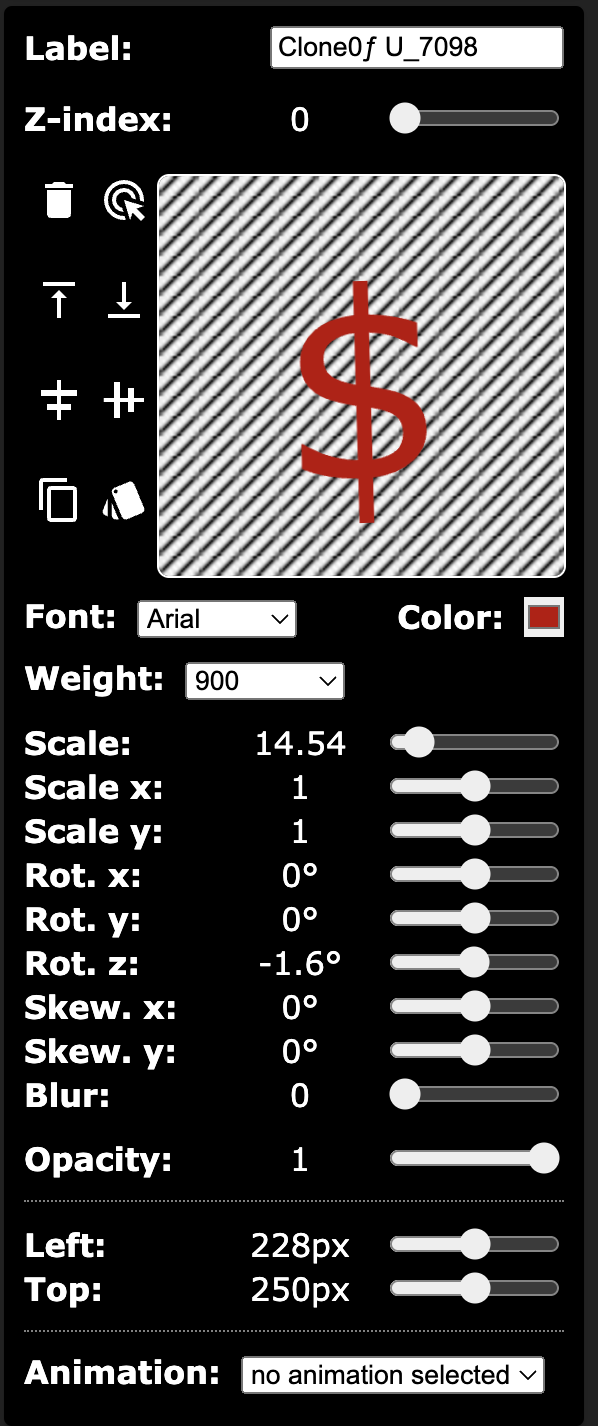
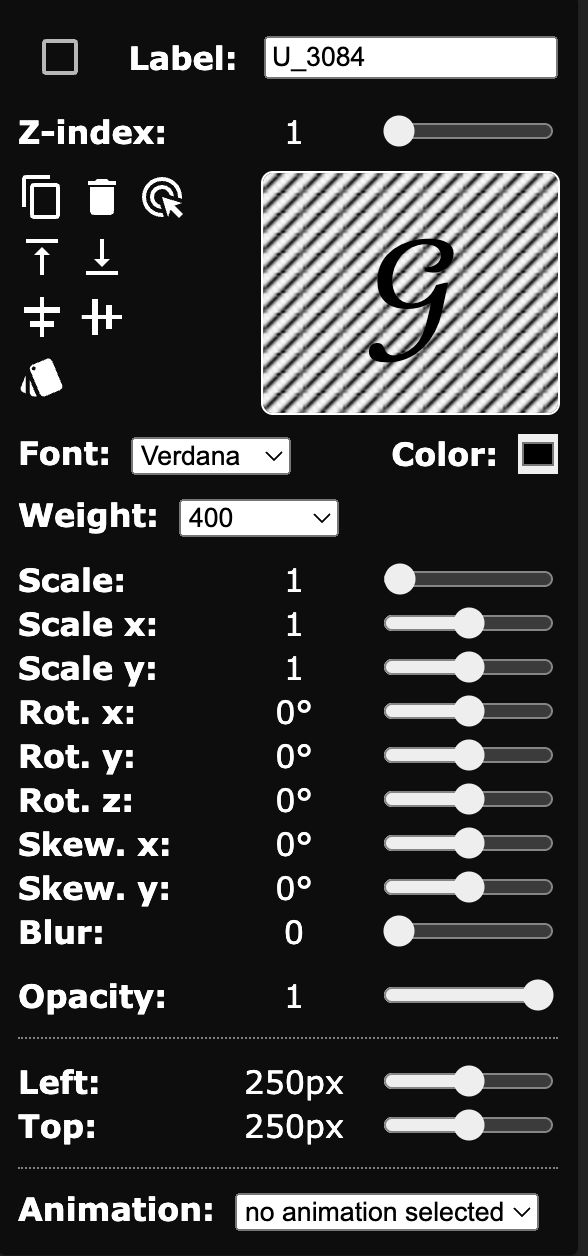
fix theming

diff --git a/src/cmp/Layout/cmp/Panel/cmp/Symbols/Sym/index.jsx b/src/cmp/Layout/cmp/Panel/cmp/Symbols/Sym/index.jsx
@@ -1,5 +1,5 @@
 import { useContext } from 'react';
-import { Card, Typography, Checkbox} from '@mui/material';
+import { Card, Typography, Checkbox } from '@mui/material';
 import ArrowDropUpIcon from '@mui/icons-material/ArrowDropUp';
 import ArrowDropDownIcon from '@mui/icons-material/ArrowDropDown';
 
@@ -13,15 +13,16 @@ import ctx from 'src/Context';
 import ACTIONS from 'src/reducer/actions';
 import useStyles from './styles';
 
-const Sym = ({sym}) => {
+const Sym = ({ sym }) => {
     const {
-            state: {
-                focusedSymbolId,
-                backgroundColor,
-                selected
-            },
-            dispatch
-        } = useContext(ctx),
+        state: {
+            focusedSymbolId,
+            backgroundColor,
+            selected,
+            symbols
+        },
+        dispatch
+    } = useContext(ctx),
         expanded = focusedSymbolId === sym.id,
         classes = useStyles({
             expanded,
@@ -49,7 +50,7 @@ const Sym = ({sym}) => {
             e.stopPropagation();
             dispatch({
                 type: ACTIONS.MOVE_SYMBOL,
-                payload: {id: sym.id, direction}
+                payload: { id: sym.id, direction }
             });
         },
         moveUp = e => move(e, -1),
@@ -57,33 +58,34 @@ const Sym = ({sym}) => {
     // console.log({selected});
     return <div className={classes.Container}>
         <Card onClick={focus} className={classes.Sym}>
-            {expanded ? 
-            <div>
-                <Label sym={sym} checked={selected.includes(sym.id)} onClick={onCheckToggle}/>
-                <Zindex sym={sym}/>
-                <Element sym={sym} backgroundColor={backgroundColor}/>
-                <Styles sym={sym} />
-                <hr className={classes.Hr} />
-                <Position sym={sym} />
-                <hr className={classes.Hr} />
-                <Animation sym={sym}/>
-            </div> : <div className={classes.HoverLight}>
+            {expanded ?
                 <div>
-                    <Checkbox checked={selected.includes(sym.id)} onClick={onCheckToggle}/>
-                </div>
-                <div>
-                    <Typography variant="body1">{sym.label}</Typography>
-                    <Typography variant="h5">
-                        <div className={classes.RotatedContainer}>
-                            <div className={classes.Rotated}>{sym.char}</div>
-                        </div>
-                    </Typography>
-                </div>
-                <div className={classes.HoverLightActions}>
-                    <ArrowDropUpIcon onClick={moveUp}/>
-                    <ArrowDropDownIcon onClick={moveDown}/>
-                </div>
-            </div>}
+                    <Label sym={sym} checked={selected.includes(sym.id)} onClick={onCheckToggle} />
+                    <Zindex sym={sym} />
+                    <Element sym={sym} backgroundColor={backgroundColor} />
+                    <Styles sym={sym} />
+                    <hr className={classes.Hr} />
+                    <Position sym={sym} />
+                    <hr className={classes.Hr} />
+                    <Animation sym={sym} />
+                </div> : <div className={classes.HoverLight}>
+                    {Boolean(symbols.length > 1) &&
+                        <div>
+                            <Checkbox checked={selected.includes(sym.id)} onClick={onCheckToggle} />
+                        </div>}
+                    <div>
+                        <Typography variant="body1">{sym.label}</Typography>
+                        <Typography variant="h5">
+                            <div className={classes.RotatedContainer}>
+                                <div className={classes.Rotated}>{sym.char}</div>
+                            </div>
+                        </Typography>
+                    </div>
+                    <div className={classes.HoverLightActions}>
+                        <ArrowDropUpIcon onClick={moveUp} />
+                        <ArrowDropDownIcon onClick={moveDown} />
+                    </div>
+                </div>}
         </Card>
     </div>;
 };

diff --git a/src/App.js b/src/App.js
@@ -1,16 +1,15 @@
 import { useReducer, useEffect, useCallback } from 'react';
-import { ThemeProvider} from 'react-jss';
-
-
+import { ThemeProvider } from 'react-jss';
+import { ThemeProvider as MThemeProvider, createTheme } from '@mui/material/styles';
 
 import Layout from './cmp/Layout';
 import Context from './Context';
 import reducerFactory from './reducer';
 import ACTIONS from './reducer/actions';
 import getTheme from './themes';
-import {debounce} from './utils';
+import { debounce } from './utils';
 
-const {reducer, init} = reducerFactory();
+const { reducer, init } = reducerFactory();
 const App = () => {
     const [state, dispatch] = useReducer(reducer, {}, init),
         { themeKey, preventReload } = state,
@@ -27,7 +26,12 @@ const App = () => {
             e.returnValue = '';
         }, []),
         storeViewPortData = useCallback(debounced, []),
-        prevent = useCallback(e => e.preventDefault(), []);
+        prevent = useCallback(e => e.preventDefault(), []),
+        mtheme = createTheme({
+            palette: {
+                mode: themeKey,
+            },
+        });
     useEffect(storeViewPortData, [storeViewPortData]);
     useEffect(() => {
         window.addEventListener("resize", storeViewPortData);
@@ -40,7 +44,7 @@ const App = () => {
                 history.go(1);
             };
         }
-        
+
         return () => {
             window.removeEventListener("resize", storeViewPortData);
             window.removeEventListener("scroll", prevent);
@@ -50,13 +54,15 @@ const App = () => {
             }
         };
     }, [storeViewPortData, preventReload]);
-    
-    return (        
-        <ThemeProvider theme={theme}>
-            <Context.Provider value={{state, dispatch, browser}}>
-                <Layout/>
-            </Context.Provider>
-        </ThemeProvider>
+
+    return (
+        <MThemeProvider theme={mtheme}>
+            <ThemeProvider theme={theme}>
+                <Context.Provider value={{ state, dispatch, browser }}>
+                    <Layout />
+                </Context.Provider>
+            </ThemeProvider>
+        </MThemeProvider>
     );
 };
 

diff --git a/src/cmp/Layout/cmp/Panel/cmp/Search/index.jsx b/src/cmp/Layout/cmp/Panel/cmp/Search/index.jsx
@@ -16,6 +16,7 @@ const Search = () => {
             state: {
                 symbols,
                 symbolsFilter,
+                selected
             },
             dispatch
         } = useContext(ctx),
@@ -36,19 +37,24 @@ const Search = () => {
         invertAll = () => dispatch({
             type: ACTIONS.TOGGLE_SYMBOLS_SELECTION,
             payload: 'invertAll'
-        })
-        ;
+        }),
+        syL = symbols.length,
+        seL = selected.length,
+        showSelectAll = Boolean(syL),
+        showUnselectAll = Boolean(seL),
+        showInvertSelection = Boolean(seL);
+        
     return Boolean(symbols.length) && <div className={classes.Container}>
         <div>
-            <Tooltip disableInteractive title="select all" className={classes.Pointer}>
+            {showSelectAll && <Tooltip disableInteractive title="select all" className={classes.Pointer}>
                 <DoneAllIcon onClick={selectAll}/>
-            </Tooltip>
-            <Tooltip disableInteractive title="unselect all" className={classes.Pointer}>
+            </Tooltip>}
+            {showUnselectAll && <Tooltip disableInteractive title="unselect all" className={classes.Pointer}>
                 <RemoveDoneIcon onClick={unselectAll}/>
-            </Tooltip>
-            <Tooltip disableInteractive title="invert selection" className={classes.Pointer}>
+            </Tooltip>}
+            {showInvertSelection && <Tooltip disableInteractive title="invert selection" className={classes.Pointer}>
                 <FlakyIcon onClick={invertAll}/>
-            </Tooltip>
+            </Tooltip>}
         </div>
         <div className={classes.Right}>
             <input placeholder="filter by label" type="text" value={symbolsFilter} onInput={updateFilter}/>

diff --git a/src/cmp/Layout/cmp/Panel/cmp/Symbols/Sym/cmp/Label/index.jsx b/src/cmp/Layout/cmp/Panel/cmp/Symbols/Sym/cmp/Label/index.jsx
@@ -12,7 +12,7 @@ import useElementStyles from './styles';
 const Label = ({sym, checked, onClick}) => {
     const classes = useStyles(),
         localCasses = useElementStyles(),
-        {  dispatch} = useContext(ctx),
+        {  dispatch, state: {symbols}} = useContext(ctx),
         updateLabel = e => dispatch({
             type: ACTIONS.UPDATE_SYMBOL,
             payload: {
@@ -23,7 +23,7 @@ const Label = ({sym, checked, onClick}) => {
     return <div className={localCasses.SectionLabel}>
         <div>
             <Box className={classes.Box}>
-                <Checkbox checked={checked} onClick={onClick}/>
+                {Boolean(symbols.length > 1) && <Checkbox checked={checked} onClick={onClick}/>}
                 <strong>Label: </strong><input type="text" onInput={updateLabel} size="small" label="Symbol label"  value={sym.label} />
             </Box>
         </div>

diff --git a/src/cmp/Layout/cmp/Panel/cmp/Symbols/Sym/cmp/Element/styles.js b/src/cmp/Layout/cmp/Panel/cmp/Symbols/Sym/cmp/Element/styles.js
@@ -1,6 +1,6 @@
 import { createUseStyles } from 'react-jss';
 import { mergeAdditionalStyles } from 'src/utils';
-import bgBright from 'src/img/bgBright.png';
+import bgLight from 'src/img/bgLight.png';
 import bgDark from 'src/img/bgDark.png';
 
 export default createUseStyles(theme => ({
@@ -32,7 +32,7 @@ export default createUseStyles(theme => ({
         fontSize:'4em',
         outline: `1px solid ${theme.border}`,
         borderRadius: '5px',
-        backgroundImage: `url(${theme.mode === 'bright' ? bgBright: bgDark})`,
+        backgroundImage: `url(${theme.mode === 'light' ? bgLight: bgDark})`,
         overflow:'hidden'
     },
     Item: {

diff --git a/src/constants.js b/src/constants.js
@@ -24,8 +24,8 @@ export const ITEM_WIDTH = 100;
 export const ITEM_HEIGHT = 140;
 export const ITEM_FOOTER_HEIGHT = 20;
 export const ITEM_FONTSIZE = '2.5em';
-export const THEMES = {'dark' : 'dark', 'bright': 'bright'};
-export const DEFAULT_THEME = (h > 20 || h < 7) ? THEMES.dark : THEMES.bright;
+export const THEMES = {'dark' : 'dark', 'light': 'light'};
+export const DEFAULT_THEME = (h > 20 || h < 7) ? THEMES.dark : THEMES.light;
 export const FADED_OPACITY = 0.4;
 export const LET_UNICODE_PANEL_OPEN_AFTER_SELECTION = true;
 export const MIN_SCALE_REV = -150;

diff --git a/src/cmp/Layout/cmp/Panel/cmp/Icons/index.jsx b/src/cmp/Layout/cmp/Panel/cmp/Icons/index.jsx
@@ -186,7 +186,7 @@ const Icons = () => {
                     checkedIcon={<FullscreenExitIcon />}
                 />
             </Tooltip>
-            <ThemeSwitch onChange={handleClose} tooltip={`switch to ${themeKey === THEMES.bright ? THEMES.dark : THEMES.bright} theme`}/>
+            <ThemeSwitch onChange={handleClose} tooltip={`switch to ${themeKey === THEMES.light ? THEMES.dark : THEMES.light} theme`}/>
         </div>
         {error && <SnackMessage message={error} open={error} setOpen={removeError}/>}
     </>;

diff --git a/src/themes/light.js b/src/themes/light.js
@@ -2,7 +2,7 @@ import { colors, spacing } from './base';
 
 const {grayscale : cgs } = colors,
     theme =  {
-        mode: 'bright',
+        mode: 'light',
         background: {
             main: cgs.lightE,
             panel: cgs.lightD,
@@ -36,7 +36,7 @@ const {grayscale : cgs } = colors,
         accentColor:cgs.dark5,
         spacing,
         palette: {
-            // mode: 'light'
+            mode: 'light'
         }
     };  
 

diff --git a/src/cmp/Layout/cmp/Panel/styles.js b/src/cmp/Layout/cmp/Panel/styles.js
@@ -19,7 +19,7 @@ export default createUseStyles(theme => ({
         borderRadius:'25px',
         borderTopRightRadius: 0,
         borderBottomRightRadius: 0,
-        boxShadow: `30px 0px 80px -7px ${theme.mode === 'bright' ? 'rgba(0,0,0,0.75)' : 'rgba(255,255,255,0.75)'}`,
+        boxShadow: `30px 0px 80px -7px ${theme.mode === 'light' ? 'rgba(0,0,0,0.75)' : 'rgba(255,255,255,0.75)'}`,
         zIndex: 0
     },
 }));

diff --git a/src/reducer/index.js b/src/reducer/index.js
@@ -90,8 +90,8 @@ const actions = {
         [ACTIONS.SWITCH_THEME]: ({
             oldState: {themeKey}
         }) => ({
-            themeKey: themeKey === 'bright'
-                ? 'dark' : 'bright'
+            themeKey: themeKey === 'light'
+                ? 'dark' : 'light'
         }),
         
         [ACTIONS.RESIZE]: ({

diff --git a/src/themes/index.js b/src/themes/index.js
@@ -1,9 +1,9 @@
 import dark from './dark';
-import bright from './bright';
+import light from './light';
 
 const themes = {
     dark,
-    bright
+    light
 };
 const getTheme = t => themes[t];
 

diff --git a/src/themes/dark.js b/src/themes/dark.js
@@ -37,7 +37,7 @@ const {grayscale : cgs} = colors,
         accentColor:cgs.lightE,
         spacing,
         palette: {
-            // mode: 'dark'
+            mode: 'dark'
         }
     };
 
